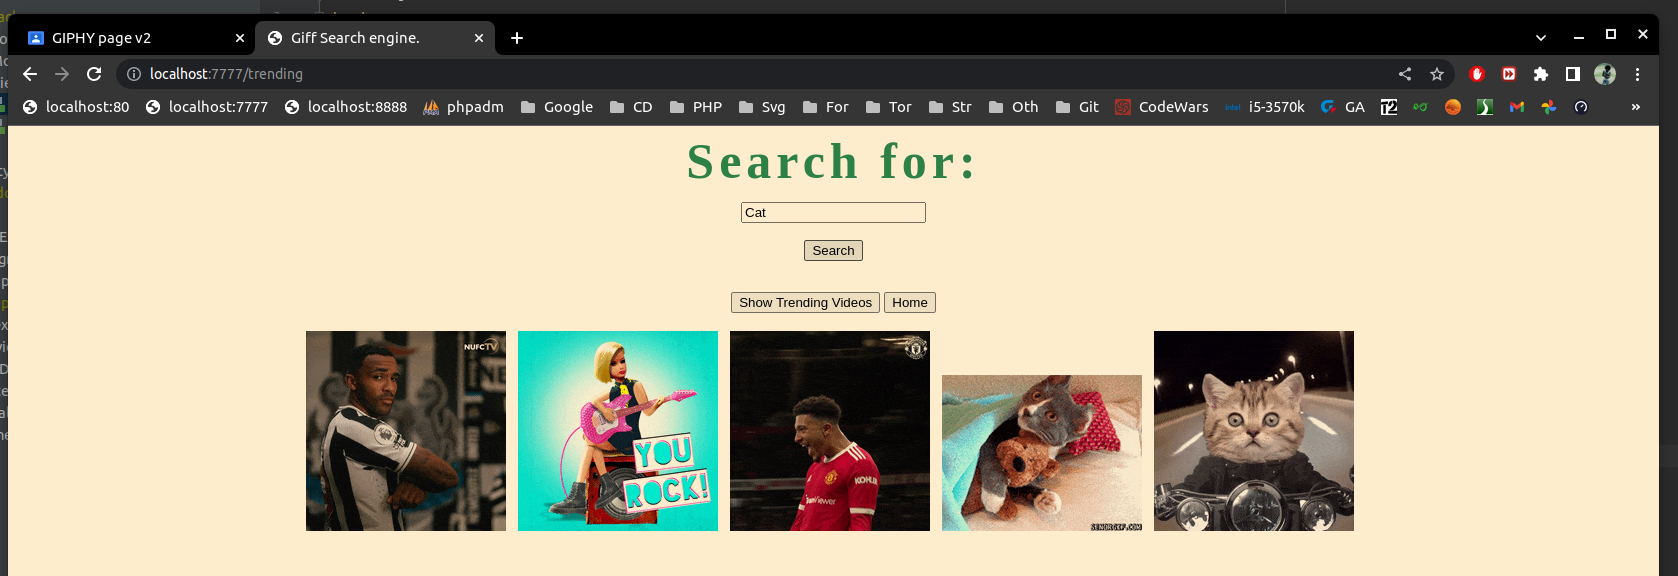
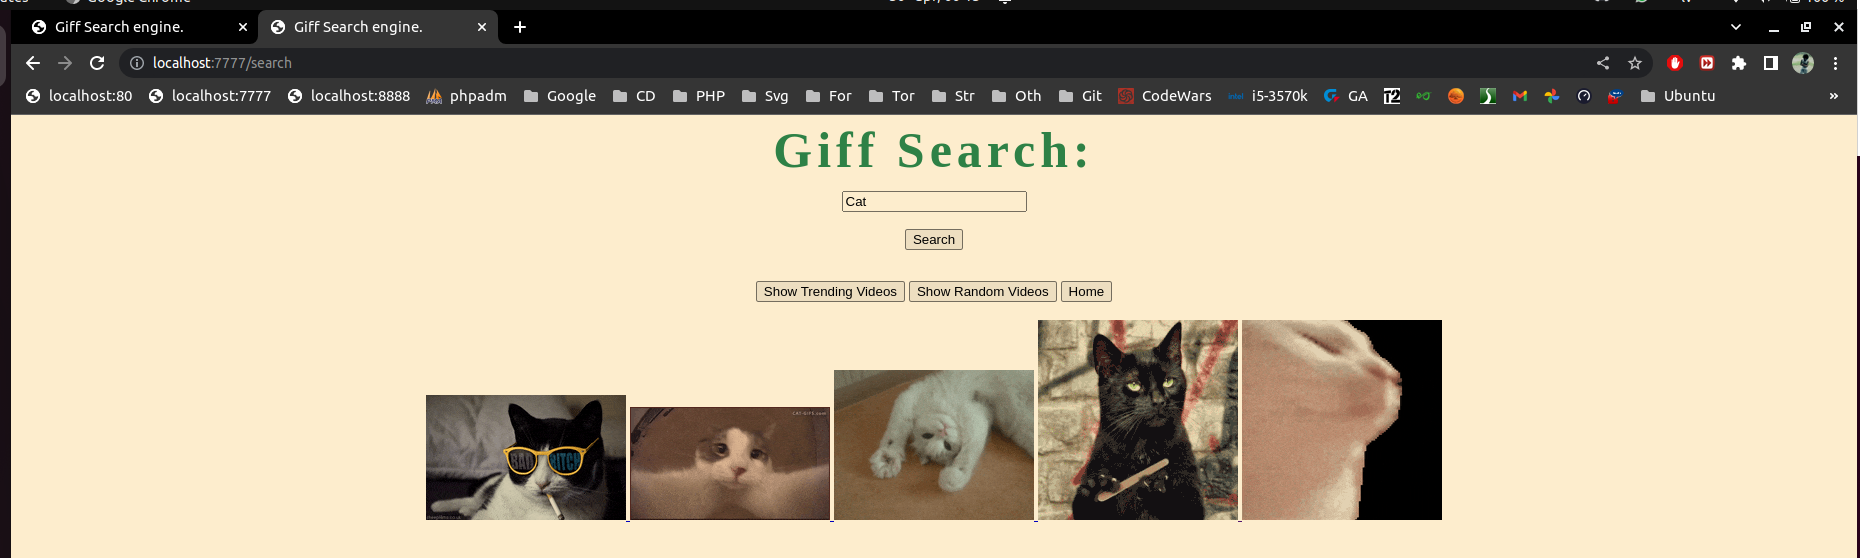
Update

Changed region(s): [[0.0, 0.0, 1.0, 1.0], [0.1549, 0.4875, 0.8057, 0.9444]]

diff --git a/GiphyAppV2/app/Models/ClientTemplate.php b/GiphyAppV2/app/Models/ClientTemplate.php
@@ -1,0 +1,59 @@
+<?php
+
+namespace App\Models;
+
+class ClientTemplate
+{
+    protected string $API_KEY;
+    protected string $resultLimit;
+    protected ?string $searchPhrase;
+
+    public function __construct()
+    {
+        $this->API_KEY = $_ENV['API_KEY'];
+        $this->resultLimit = $_ENV['SEARCH_RESULT_LIMIT'];
+        $this->searchPhrase = $_POST['searchPhrase'];
+    }
+
+    public function search(): array
+    {
+        $searchPhrase = $_POST['searchPhrase'];
+        $uri = "v1/gifs/search?q=$searchPhrase&api_key=$this->API_KEY&limit=$this->resultLimit";
+        $APIResponse = new ClientRequest($uri);
+        $resource = $APIResponse->getGifResource();
+        $URLs = [];
+
+        foreach ($resource as $gif) {
+            if (isset($gif['url'])) {
+                $URLs[] = new RecordResults($gif['images']['fixed_width']['url']);
+            }
+        }
+        return $URLs;
+    }
+
+    public function trending(): array
+    {
+        $uri = "v1/gifs/trending?&api_key=$this->API_KEY&limit=$this->resultLimit";
+        $APIResponse = new ClientRequest($uri);
+        $resource = $APIResponse->getGifResource();
+        $URLs = [];
+        foreach ($resource as $gif) {
+
+            if (isset($gif)) {
+                $URLs[] = new RecordResults($gif['images']['fixed_width']['url']);
+            }
+        }
+        return $URLs;
+    }
+
+    public function random(): array
+    {
+        $uri = "v1/gifs/random?&api_key=$this->API_KEY";
+        $APIResponse = new ClientRequest($uri);
+        $resource = $APIResponse->getGifResource();
+        $URLs = [];
+        $URLs[] = new RecordResults($resource['images']['fixed_width']['url']);
+        return $URLs;
+    }
+}
+

diff --git a/GiphyAppV2/app/Controller/Controller.php b/GiphyAppV2/app/Controller/Controller.php
@@ -1,0 +1,35 @@
+<?php
+
+namespace app\Controller;
+
+use App\Models\ClientTemplate;
+use App\Models\ViewResults;
+
+class Controller
+{
+    public function trending(): ViewResults
+    {
+        $clientTemplate = new ClientTemplate();
+        $gifs = $clientTemplate->trending();
+        return new ViewResults('gifs.view.twig', ['gifs' => $gifs]);
+    }
+
+    public function search(): ViewResults
+    {
+        $clientTemplate = new ClientTemplate();
+        $gifs = $clientTemplate->search();
+        return new ViewResults('gifs.view.twig', ['gifs' => $gifs]);
+    }
+
+    public function random(): ViewResults
+    {
+        $clientTemplate = new ClientTemplate();
+        $gifs = $clientTemplate->random();
+        return new ViewResults('gifs.view.twig', ['gifs' => $gifs]);
+    }
+
+    public function home(): void
+    {
+
+    }
+}

diff --git a/GiphyAppV2/index.php b/GiphyAppV2/index.php
@@ -1,27 +1,26 @@
 <?php
 
+require 'vendor/autoload.php';
+
+include 'app/Views/form.view.twig';
+include 'router.php';
+
+use App\Models\ViewResults;
 use Twig\Environment;
 use Twig\Loader\FilesystemLoader;
-
-include 'router.php';
-include 'app/Views/form.view.html';
-require 'vendor/autoload.php';
 
 $loader = new FilesystemLoader('app/Views');
 $twig = new Environment($loader, [
     'cache' => 'app/cache',
 ]);
+/** @var ViewResults $response */
+echo $twig->render('gifs.view.twig', $response->getURLs());
 
-if (gettype($response) == 'string') {
-    echo $response;
 
-} elseif (gettype($response) == 'array') {
-    $template = $twig->load('result.view.html');
-    foreach ($response as $url) {
-        $img = $url->getUrl();
-        echo $template->render(['url' => $img]);
-    }
-}
+
+
+
+
 
 
 

diff --git a/GiphyAppV2/router.php b/GiphyAppV2/router.php
@@ -7,10 +7,10 @@ $dotenv->load();
 
 $dispatcher = FastRoute\simpleDispatcher(function (FastRoute\RouteCollector $r) {
 
-    $r->addRoute(['POST'], '/searchGifs', 'App\Controller\ClientController@searchGifs');
-    $r->addRoute(['GET'], '/trending', 'App\Controller\ClientController@trending');
-    $r->addRoute(['GET'], '/home', 'App\Controller\ClientController@home');
-
+    $r->addRoute(['POST'], '/search', 'App\Controller\Controller@search');
+    $r->addRoute(['GET'], '/trending', 'App\Controller\Controller@trending');
+    $r->addRoute(['GET'], '/random', 'App\Controller\Controller@random');
+    $r->addRoute(['GET'], '/home', 'App\Controller\Controller@home');
 });
 
 // Fetch method and URI from somewhere

diff --git a/GiphyAppV2/app/Models/ViewResults.php b/GiphyAppV2/app/Models/ViewResults.php
@@ -1,0 +1,24 @@
+<?php
+
+namespace App\Models;
+class ViewResults
+{
+    private string $path;
+    private array $URLs;
+
+    public function __construct(string $path, array $URLs)
+    {
+        $this->path = $path;
+        $this->URLs = $URLs;
+    }
+
+    public function getPath(): string
+    {
+        return $this->path;
+    }
+
+    public function getURLs(): array
+    {
+        return $this->URLs;
+    }
+}

diff --git a/GiphyAppV2/app/Models/RecordResults.php b/GiphyAppV2/app/Models/RecordResults.php
@@ -1,7 +1,7 @@
 <?php
 
 namespace App\Models;
-class UrlRecord
+class RecordResults
 {
     protected string $url;
 

diff --git a/GiphyAppV2/twig.php b/GiphyAppV2/twig.php
@@ -1,0 +1,1 @@
+<?php
